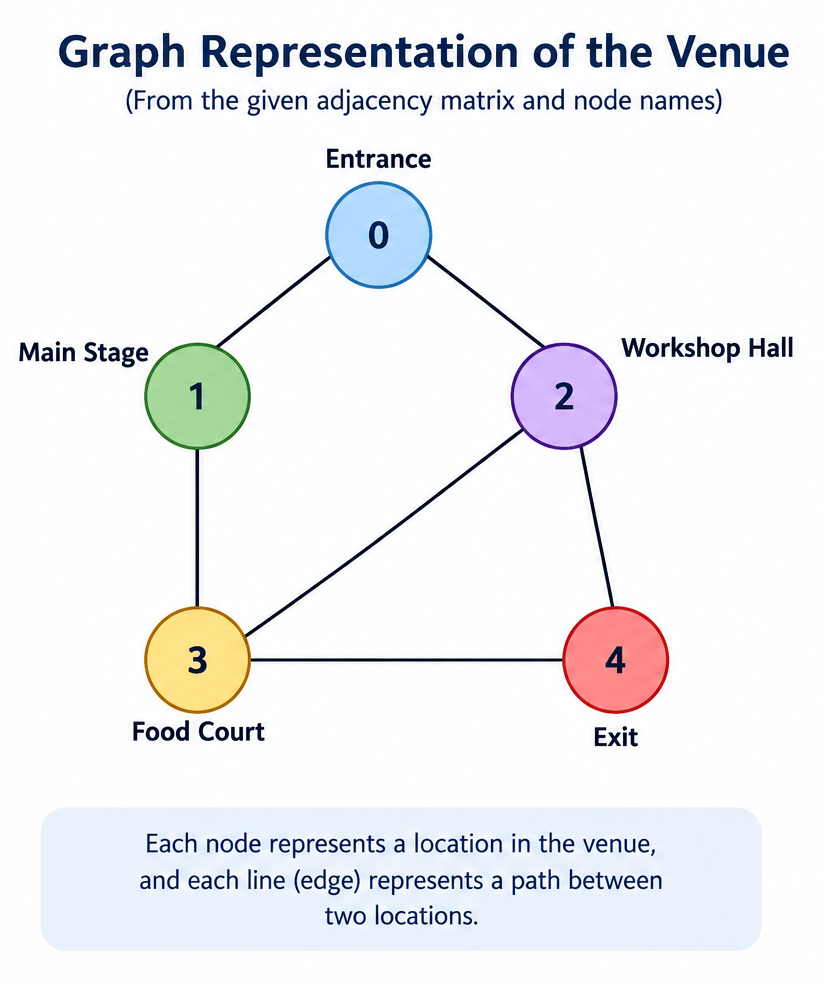
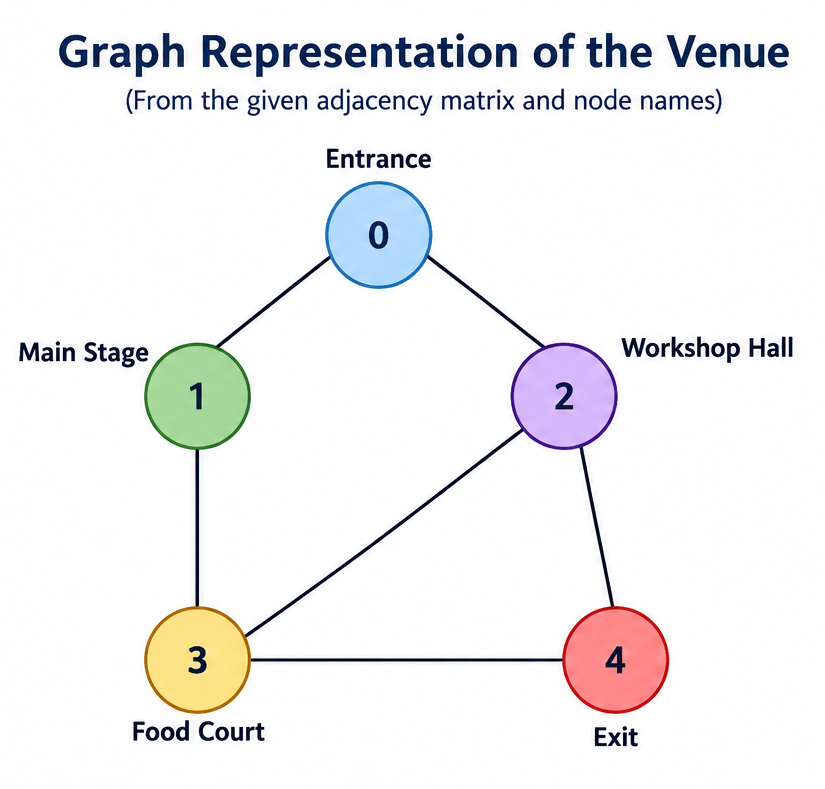
Updated README

diff --git a/README.md b/README.md
@@ -5,7 +5,7 @@ The system allows users to view available events, book tickets, cancel tickets, 
 
 <img src="./Screenshots/Main Output.jpg" width="400" alt="Main Output">
 
-<img src="./Screenshots/Components.png" width="700" alt="Components">
+<img src="./Screenshots/Components.png" width="800" alt="Components">
 
 # Queue
 A queue is a linear data structure that operates on the First-In-First-Out (FIFO) principle.
@@ -64,7 +64,7 @@ void confirmBooking(int e_id, int b_id, char* name) {
 void displayEvents() {
     printf("\n--- Available Events ---\n");
     for (int i = 0; i < MAX_EVENTS; i++) {
-        int waitlist_count = (events[i].q_front == -1) ? 0 : (events[i].q_rear - events[i].q_front + 1);    
+        int waitlist_count = (events[i].q_front == -1) ? 0 : (events[i].q_rear - events[i].q_front + 1);
         printf("ID: %d | %s | Tickets Left: %d | Waitlist Queue: %d/%d\n", 
                events[i].id, events[i].name, events[i].available_tickets, waitlist_count, MAX_WAITLIST);
     }
@@ -145,8 +145,8 @@ In our project, the vertices represent different locations in the event venue an
 
 We use BFS, or Breadth First Search, to traverse the graph level by level and find a route from the user's starting location to the destination. The graph is represented using an adjacency matrix, and BFS uses a queue to visit the connected locations.
 
-<img src="./Screenshots/Graph Adjacency Matrix.png" width="400" height="300" alt="Image">
-<img src="./Screenshots/Graph Image.png" width="300" height="300" alt="Image">
+<img src="./Screenshots/Graph Image.png" width="300" height="300" alt="Image"> <img src="./Screenshots/Graph Adjacency Matrix.png" width="400" height="300" alt="Image">
+
 <img src="./Screenshots/Graph Nodes.png" width="800" height="100" alt="Image">
 
 ```c
@@ -234,9 +234,6 @@ void sortEventsByTickets() {
 # Output Sample
 <img src="./Screenshots/Output 1.png" width="500" height="300" alt="Image">
 
-<img src="./Screenshots/Output 2.png" width="400" height="300" alt="Image">
-<img src="./Screenshots/Output 3.png" width="400" height="300" alt="Image">
-<img src="./Screenshots/Output 4.png" width="400" height="300" alt="Image">
-<img src="./Screenshots/Output 5.png" width="400" height="300" alt="Image">
-<img src="./Screenshots/Output 6.png" width="400" height="300" alt="Image">
-<img src="./Screenshots/Output 7.png" width="400" height="300" alt="Image">
+<img src="./Screenshots/Output 2.png" width="400" height="300" alt="Image">     <img src="./Screenshots/Output 3.png" width="400" height="300" alt="Image">
+<img src="./Screenshots/Output 4.png" width="400" height="300" alt="Image">     <img src="./Screenshots/Output 5.png" width="400" height="300" alt="Image">
+<img src="./Screenshots/Output 6.png" width="400" height="300" alt="Image">     <img src="./Screenshots/Output 7.png" width="400" height="300" alt="Image">
